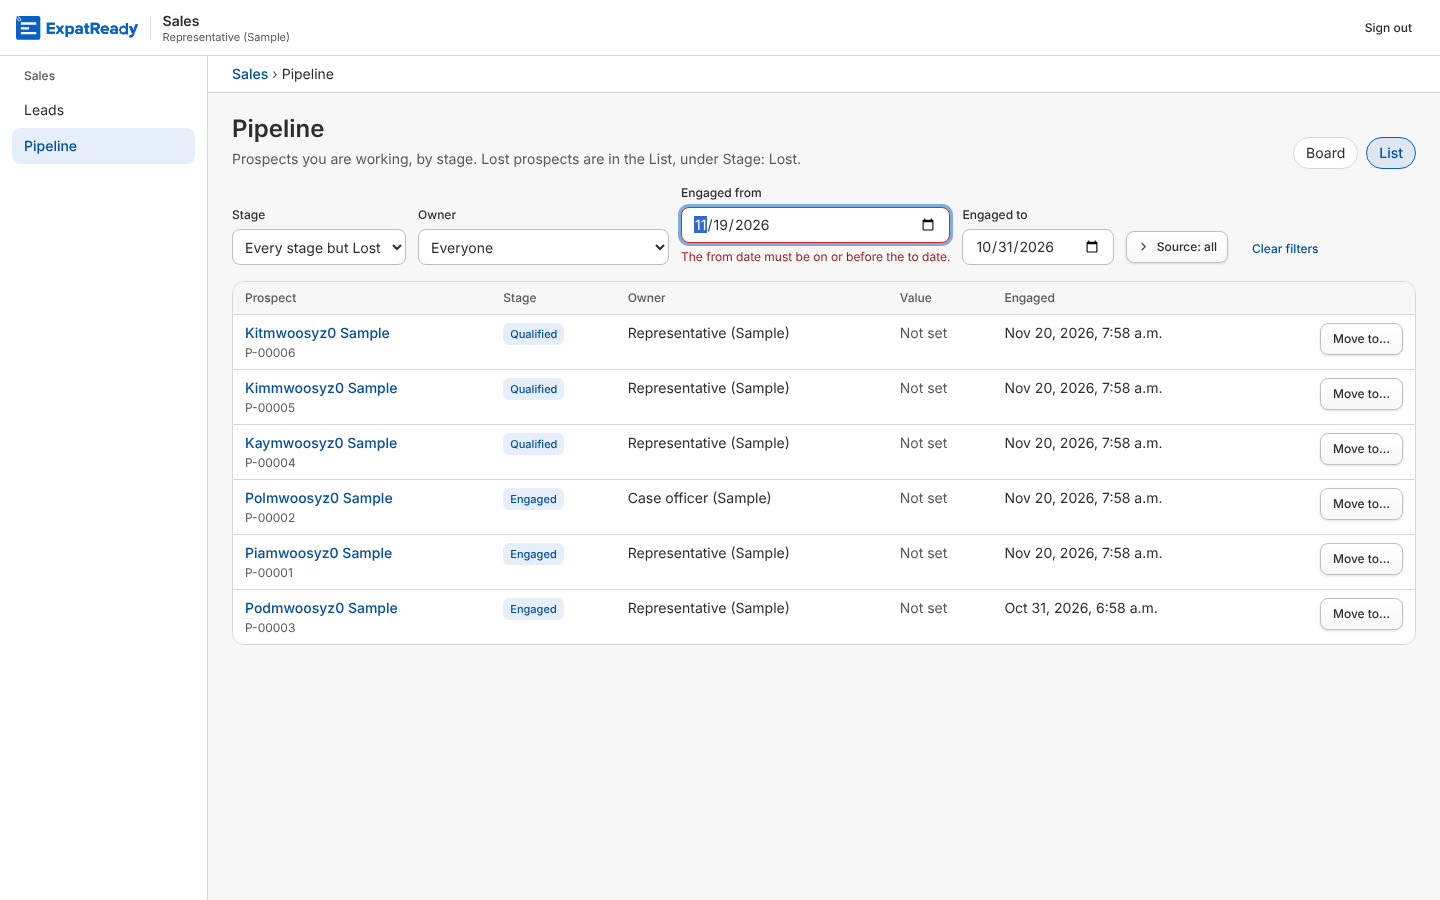
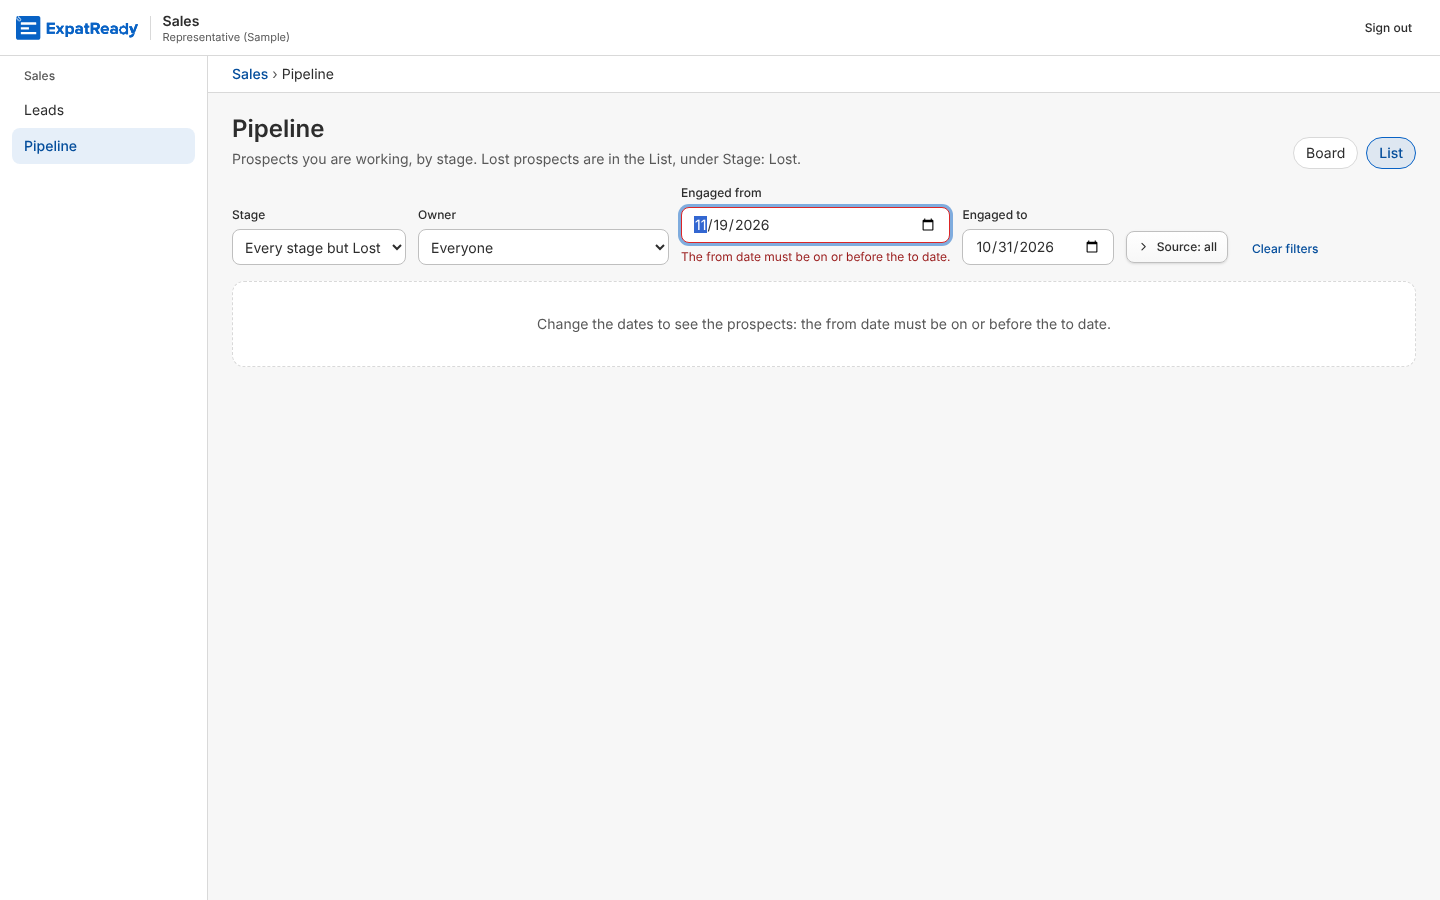
screens: R1.30 — review A: dates outside 1900-2999 dropped like the server's bounds; new from-after-to screenshot; reviewer round 2 record
Claude-Session: https://claude.ai/code/session_01MXNda9CxPBTb2HmRuB835Q

diff --git a/ai-workers/problem-1-pathway-setup-and-form-filling/prototype/studio/tests/check_r130_prospect_source.ts b/ai-workers/problem-1-pathway-setup-and-form-filling/prototype/studio/tests/check_r130_prospect_source.ts
@@ -165,7 +165,7 @@ await p.locator(`[data-prospect-row="${num("tRef")}"]`).waitFor({ timeout: 15_00
 const fixed = await rowsShown("data-prospect-row");
 ok("R1.30 DW5 pass (QA-572): a from on or before to clears the message and the list follows the range and the source", (await from.getAttribute("aria-invalid")) !== "true" && fixed.has(num("tRef")) && !fixed.has(num("tPhone")), [...fixed]);
 // Break m1: a day in the address that is not a real YYYY-MM-DD day is dropped (as Leads does), never a raw error.
-for (const bad of ["abc", "2026-02-30", "2026-1-5"]) {
+for (const bad of ["abc", "2026-02-30", "2026-1-5", "3026-11-20"]) {
   await p.goto(`${BASE}/front-office/pipeline?view=list&from=${bad}&to=${day(0)}`); await p.locator(`[data-prospect-row="${num("tPhone")}"]`).waitFor({ timeout: 30_000 }).catch(() => undefined);
   ok(`R1.30 DW5 fail (break m1): from=${bad} in the address is dropped: the list shows, no alert, no "from after to"`, (await p.locator(`[data-prospect-row="${num("tPhone")}"]`).count()) === 1 && (await p.getByRole("alert").count()) === 0 && (await p.getByText("The from date must be").count()) === 0 && sentBad === 0);
 }

diff --git a/ai-workers/problem-1-pathway-setup-and-form-filling/prototype/studio/web/src/modules/front-office/sales/source-filter.tsx b/ai-workers/problem-1-pathway-setup-and-form-filling/prototype/studio/web/src/modules/front-office/sales/source-filter.tsx
@@ -82,10 +82,11 @@ export function useAddressSources(params: URLSearchParams) {
 }
 
 /** A day filter from the address: a real calendar day as YYYY-MM-DD, else "" (dropped, as Leads always did; break m1:
- *  "abc", "2026-02-30" or "2026-1-5" never reach the server or the from/to comparison). */
+ *  "abc", "2026-02-30" or "2026-1-5" or a year outside 1900-2999 never reach the server or the from/to comparison). */
 export function dayParam(params: URLSearchParams, k: string): string {
   const v = params.get(k) ?? "";
-  return /^\d{4}-\d{2}-\d{2}$/.test(v) && !Number.isNaN(Date.parse(`${v}T00:00:00Z`)) && new Date(`${v}T00:00:00Z`).toISOString().startsWith(v) ? v : "";
+  // The server's own bounds (years 1900 to 2999, prospects.ts dayOf), so a year typo never meets its raw refusal (review A).
+  return /^\d{4}-\d{2}-\d{2}$/.test(v) && v >= "1900-01-01" && v <= "2999-12-31" && !Number.isNaN(Date.parse(`${v}T00:00:00Z`)) && new Date(`${v}T00:00:00Z`).toISOString().startsWith(v) ? v : "";
 }
 
 /** QA-572 (EXPERIENCE :27, :43, BIC-13): a "from" day after the "to" day is said at the from field, in plain words, and

diff --git a/ai-workers/problem-1-pathway-setup-and-form-filling/product/screens/fo-4-sales/review-r130.md b/ai-workers/problem-1-pathway-setup-and-form-filling/product/screens/fo-4-sales/review-r130.md
@@ -1,8 +1,56 @@
 # R1.30 — Source filter on the prospects List and board (QA-533), from-after-to at the field (QA-572): review
 
-Reviewer agent, 20 Nov 2026 (IST date). PR #2454, branch `claude/keen-goodall-pgdoiq`, head `9e2e67c72ecc8f016e42e05edaaa6dfa4dd2c6ed`. I did not build this. Copy: isolated `rev_r130` on :4491 (`PLATFORM_IDENTITY=local`), never :4400; stopped after. Live AI off, US$0. The bar: row R1.30's Done-when, AG-2-23 ("The board/list SHALL be filterable by rep, source, … stage, date range"), QA-533 and QA-572 (`qa/BUGS.md:268-269`), `STANDARDS.md`, `EXPERIENCE.md`. No `concept.md` sits in `screens/fo-4-sales/`. Concept fit is judged against the row, the two bug rows and the earlier FO-4 review. Journey test: `journey-test-reviewer-2026-11-20-r130.md`, **8.5/10 (pass)**.
+Reviewer agent, 20 Nov 2026 (IST date). PR #2454, branch `claude/keen-goodall-pgdoiq`. I did not build this. Copy: isolated `rev_r130` on :4491 (`PLATFORM_IDENTITY=local`), never :4400; stopped after each round. Live AI off, US$0. The bar: row R1.30's Done-when, AG-2-23 ("The board/list SHALL be filterable by rep, source, … stage, date range"), QA-533 and QA-572 (`qa/BUGS.md:268-269`), `STANDARDS.md`, `EXPERIENCE.md`. No `concept.md` sits in `screens/fo-4-sales/`. Concept fit is judged against the row, the two bug rows and the earlier FO-4 review. Journey test: `journey-test-reviewer-2026-11-20-r130.md`, **8.5/10 (pass)**. It was scored on round 1 and still holds (see round 2).
 
-**Verdict: Approve** (on the skill's scale: Ship). There is no Blocker and no Major. The three Minors below can follow in a small PR or be written into QA-572's row.
+**Verdict for head `6925dffcbb4b557470950e7247bd92e60dddef0c`: Approve** (on the skill's scale: Ship). There is no Blocker and no Major.
+
+## Round 2: diff-only re-review, `9e2e67c72..6925dffcb`
+**What changed:**
+* Breaker M1: `useKept` is removed. While from > to, nothing is fetched and the list is replaced by "Change the dates to see …".
+* Breaker m1 and my round-1 Minor 1: `dayParam` (`web/.../sales/source-filter.tsx`) on Leads and the List.
+* Breaker m2: `ready` waits for the choices only when the address asks for a source.
+* My round-1 Minor 2: the `calm` Field keeps its status region mounted (`controls.tsx:60-61`).
+* `check_r130_prospect_source.ts` now uses sources unique to each run and adds lines for M1, m1 and m2.
+
+**My re-runs on 6925dffcb:**
+
+| Suite | Result |
+|---|---|
+| `check_r130_prospect_source.ts`, twice on the same fresh copy | **29/29**, **29/29** |
+| `check_r130_filters_widths.ts`, fresh copy | **56/56** |
+| `j_30.ts`, fresh copy | **55/55** |
+
+* The source and qa checks fail when run after `j_30` on the same database. j_30's 200+ prospects push the run's cards past the board's first 200 per stage, and the List skeleton races DW4's read. Each passes on a fresh copy. This is test data volume, not the product, and the same as round 1.
+* The suites rewrite the tracked `screens/fo-4-sales/screenshots/*.png`. I restored them with `git checkout`.
+
+**My walk on 6925dffcb** (`walk2.mjs`, `walk3.mjs`; shots in `/tmp/claude-0/-home-user-xpatready/43763f60-dbc7-5d0e-a87a-76b5194b4110/scratchpad/r130/v2/shots/`):
+* **Status region:** before any error, one empty status region is mounted and the from field carries no `aria-describedby`.
+* **From after to:** `aria-invalid=true`, described by "The from date must be on or before the to date." (role status). 0 rows, the plain-words empty state, no alert, axe clean, and no from > to request sent.
+* **Source chosen during a bad range:** still 0 rows and only the words, so M1 is fixed.
+* **Fixing the from day:** the message clears, the region stays mounted, and the list follows.
+* **Malformed days in the address** (`2026-13-45`, `abc`, `2026-02-30`): dropped on both Leads and the List; the list shows and there is no alert.
+* **Widths:** at 400 and 1024 px the bad-range state has no sideways scroll.
+* **Code:** `ready` only skips the wait when no source is asked, and in that case `sources` is `[]` anyway, so an unfiltered fetch can never stand in for a filtered address. A `calm` Field with a `hint` falls back to the old shape, but none of the three uses passes a hint.
+
+**Round-1 Minors:**
+
+| Round-1 Minor | Status |
+|---|---|
+| 1. Raw "from:" alert | Mostly fixed, one gap left (new Minor A) |
+| 2. Live region | Fixed |
+| 3. Labels lift on error | Not taken; to be recorded in the PR as a known Minor (accepted) |
+
+**Round-2 findings (all Should / Minor; none blocks):**
+* **A. A real day outside 1900–2999 still gives the raw page alert.**
+  * Steps: `?from=3026-11-20` or `0001-01-01` shows "from: a date as YYYY-MM-DD. Try again" in place of the list, on the List and on Leads. Filling the date field with 3026-11-20 does the same (shot `v2-list-typed-year-3026-1440.png`), so a year typo reaches it, not only the address.
+  * Cause: `dayParam` (`source-filter.tsx`, the `dayParam` function) accepts any real calendar day. The server refuses outside 1900–2999 (`api/src/front-office/sales/prospects.ts:37`).
+  * **Fix:** give `dayParam` the server's bounds, or map `StaffApiError` `fields.from` and `fields.to` onto the Field. Otherwise record it in QA-572's row.
+* **B. The PR body describes the old head.** It still says "the list kept" (the `r130-list-typed-from-after-to-fixed.png` caption and the "fast typist" paragraph) and "24/24". Showing no list goes against QA-572's written Expected ("Keep the list"). That is the right call, because a kept list ignored a new source, but under "never deviate silently" it must be written in the PR body and, for qa, in QA-572's row.
+  * Also update: `r130-list-typed-from-after-to-fixed.png` if it shows the kept list; list Minor 3, m3 and m4 as known Minors.
+  * qa note: `check_r130_filters_widths.ts:203` is still worded "the list kept" but passes on the empty state (`listKept` accepts `empty`). That is qa's file; its wording should follow the ruling.
+
+---
+*Round 1 (head 9e2e67c72) follows as written then. Its "list kept" and judgement-call (1) notes are superseded by round 2.*
 
 ## Re-runs on the exact commit (mine)
 | Suite | Result |
